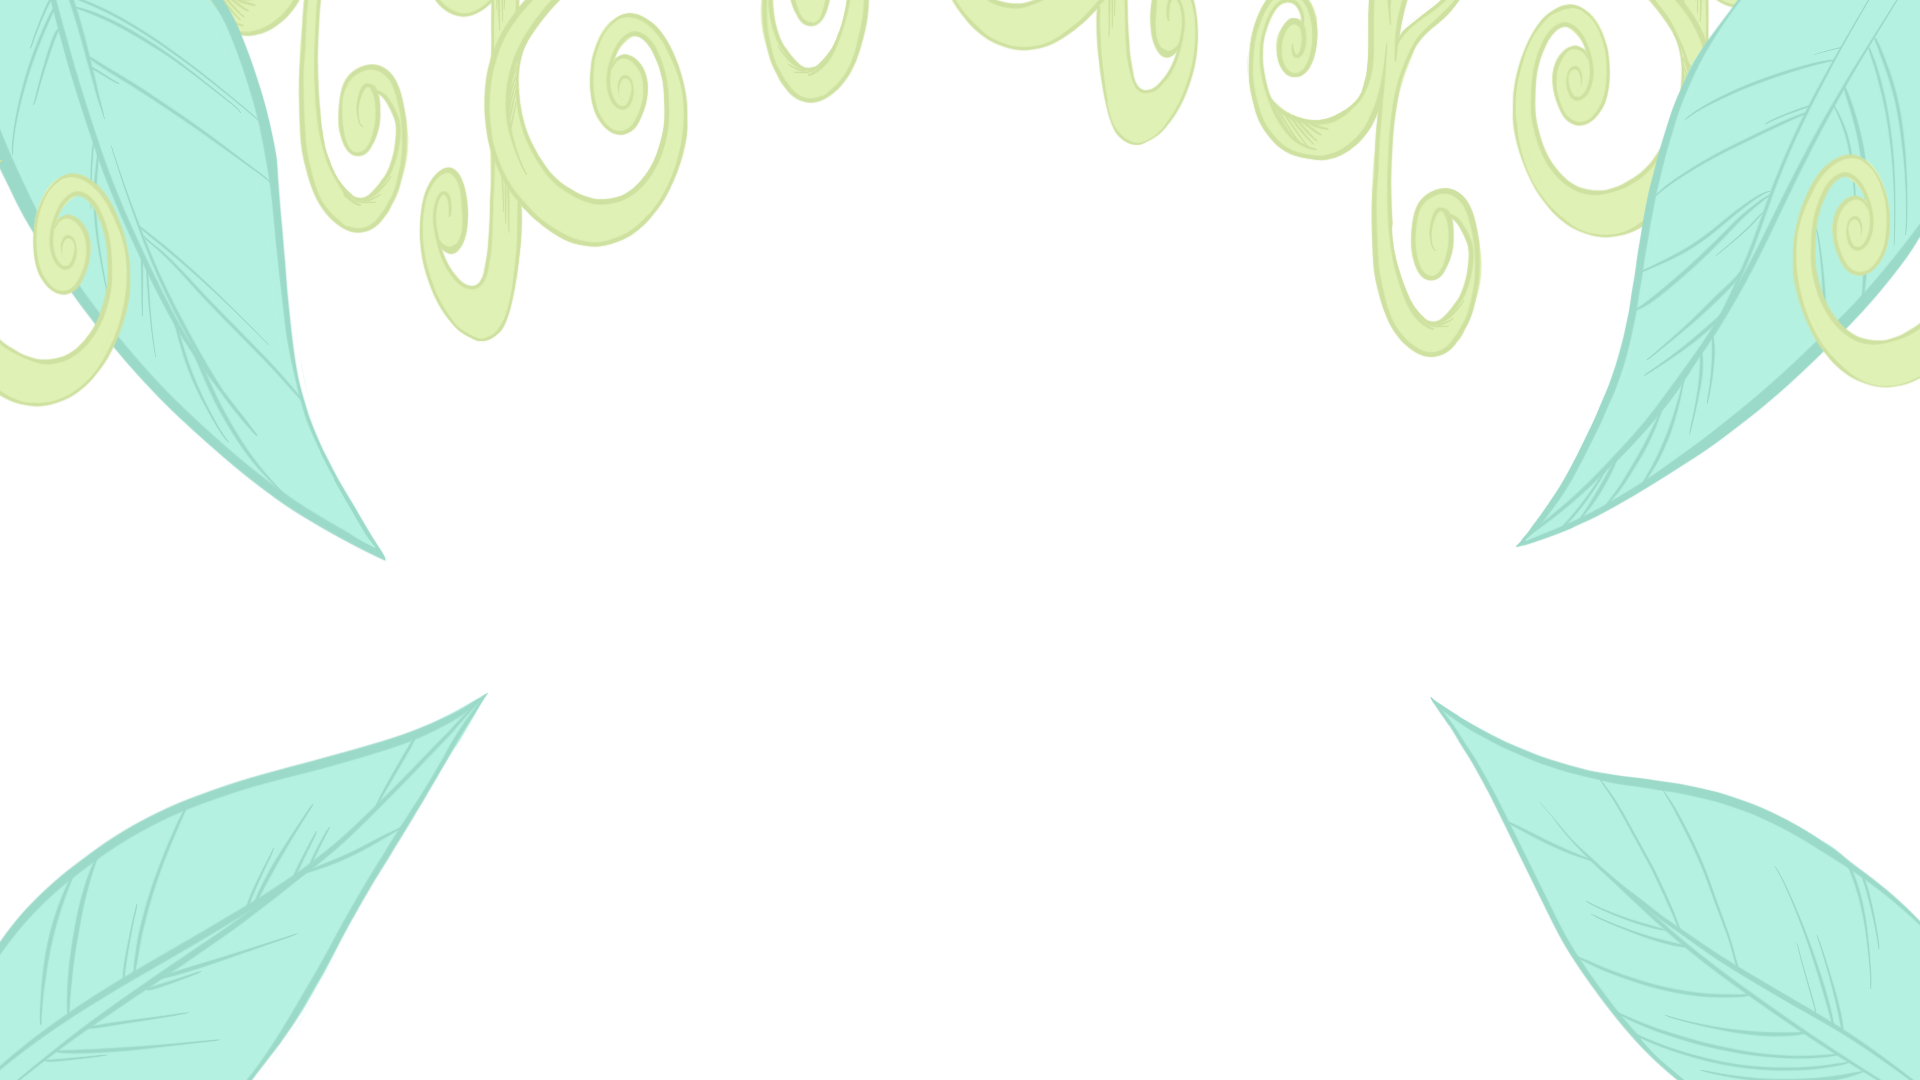
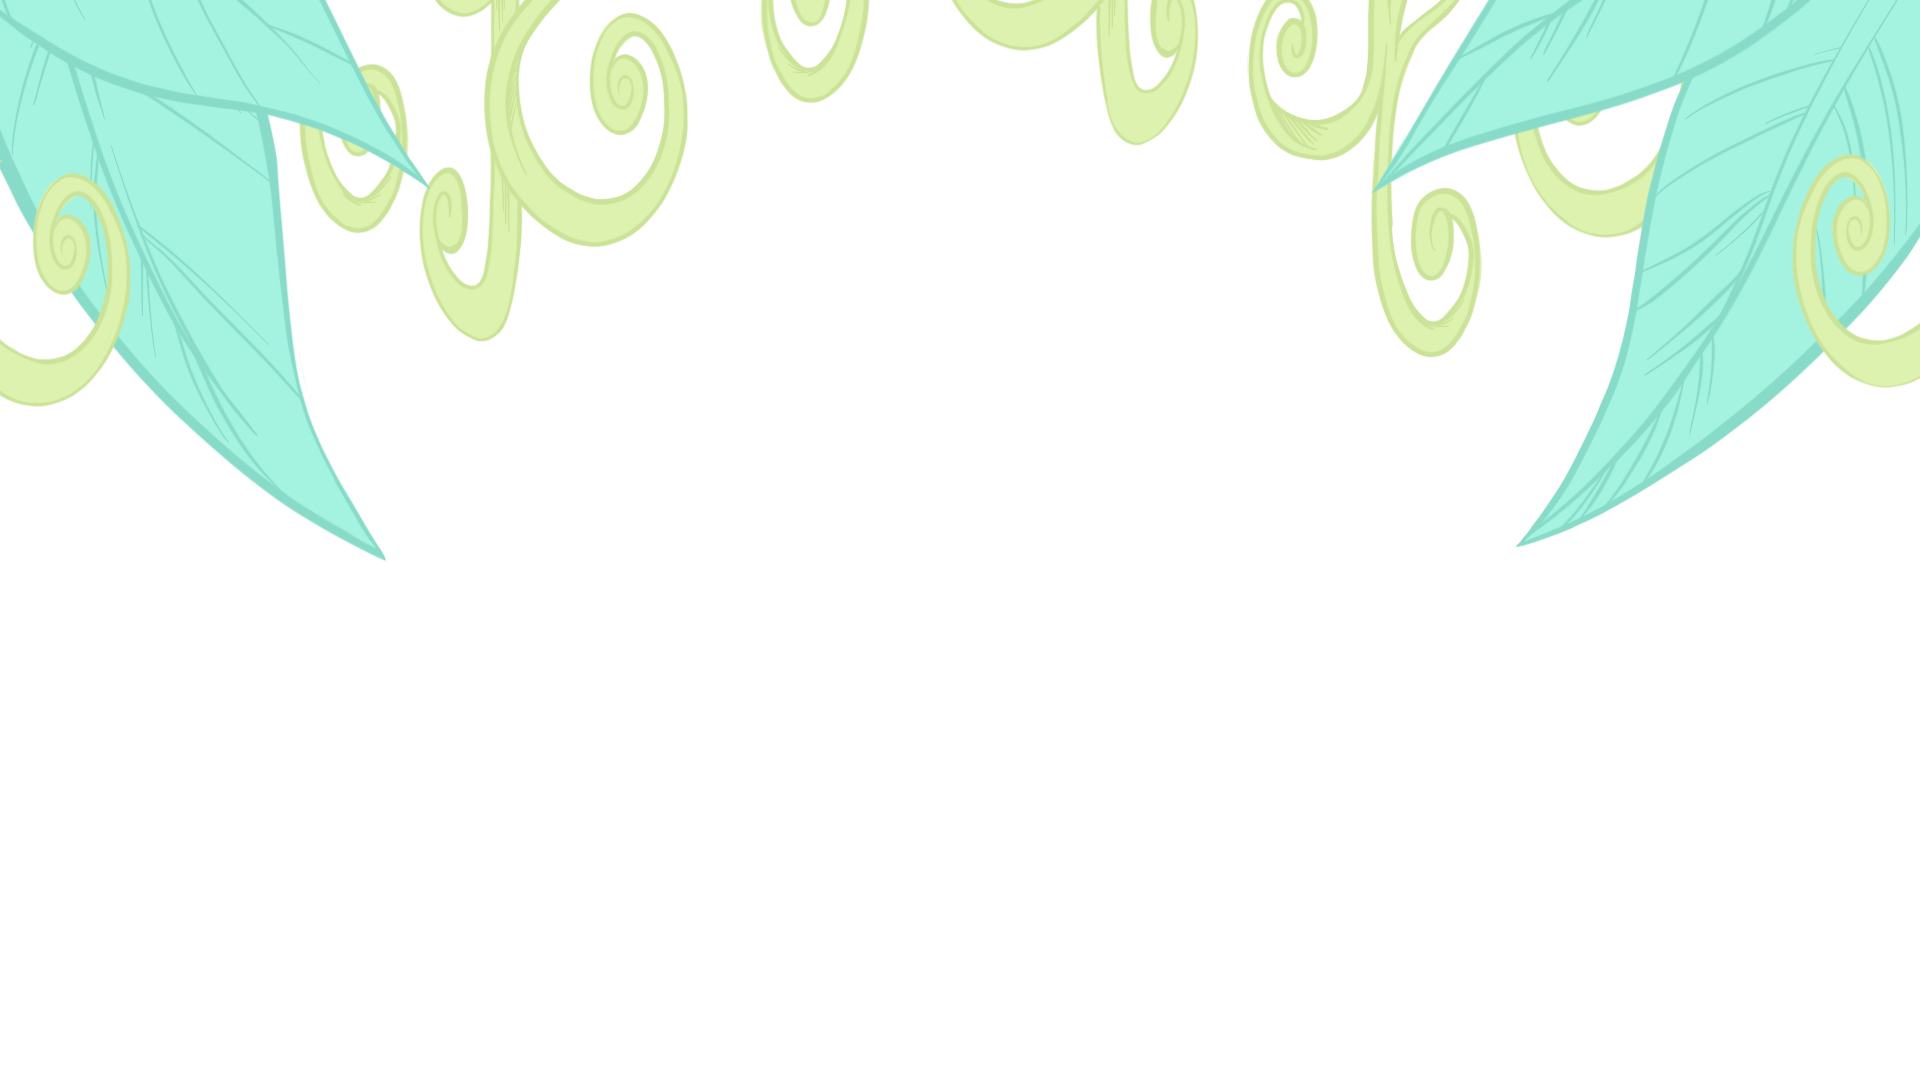
Background centering and adjustments

diff --git a/styles.css b/styles.css
@@ -5,9 +5,10 @@ html {
 body{
   background-image: url("backgroundimg.png") !important ;
   background-image: url("backgroundimg.png"), radial-gradient(circle, #fffce8 30%, #8fecff 100%), url('backgroundimg.png') !important ;
-  background-repeat: no-repeat;
-  background-attachment: scroll;
-  background-color: rgb(255,255,255) !important ;
+  background-size: cover, auto;
+  background-position: center top;
+  background-repeat: no-repeat, repeat;
+  background-color: #8fecff !important ;
   position: absolute;
   width: 100%;
   display: flex;
@@ -16,7 +17,7 @@ body{
 }
 
 .game-body {
-  padding: 10% 0;
+  padding: 100px 0 50px;
   width: 50%;
 }
 
@@ -54,7 +55,7 @@ body{
 
 .h2-header {
   font-family: 'Love Ya Like A Sister';
-  font-size: 45px;
+  font-size: 50px;
   color: #ff7b00;
   margin-bottom: 2%;
   text-transform: uppercase;
@@ -119,9 +120,22 @@ body{
 }
 
 
+@media only screen and (max-width: 800px) {
+  #avatar {
+    height: 100px;
+    width: 100px;
+    border-radius: 50%;
+    text-align: center;
+  }
+
+  .h2-header {
+    font-size: 35px;
+  }
+}
+
 @media only screen and (min-width: 1500px) {
   .game-body {
-    padding: 10% 0;
+    padding: 100px 0 50px;
     width: 30%;
   }
 }
